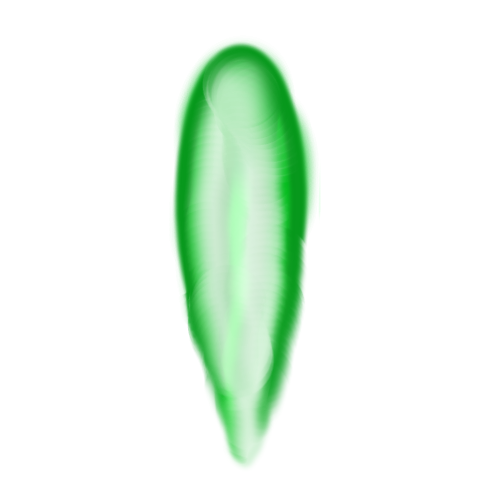
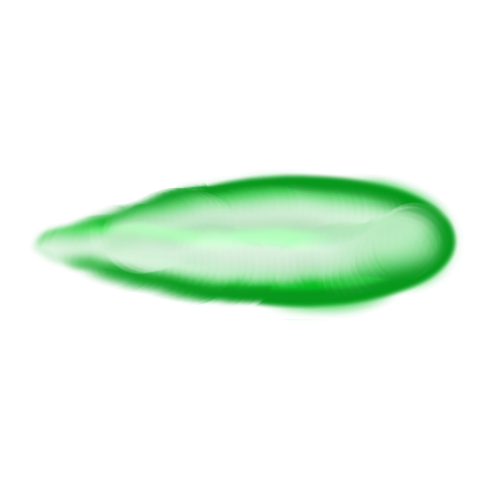
Add files via upload

Changed region(s): [[0.06, 0.06, 0.93, 0.93]]

diff --git a/src/scenes/GamePlay.js b/src/scenes/GamePlay.js
@@ -1,152 +1,156 @@
-class GamePlay extends Phaser.Scene {
-  constructor() {
-    super({
-      key: "GamePlay",
-    });
-    this.w = 3200;
-    this.h = 2400;
-    this.speed = 400;
-    this.zombies = null;
-    this.bullets = null;
-    this.lastFired = 0;
-    this.mouseX = 0;
-    this.mouseY = 0;
-    this.round = 1;
-    this.damage = 100;
-  }
-  preload() {}
-  create() {
-    this.background = this.add.image(this.w / 2, this.h / 2, "background");
-    this.player = this.physics.add
-      .sprite(this.w / 2, this.h / 2, "player")
-      .setScale(0.25);
-    this.bullets = this.physics.add.group({
-      classType: Bullet,
-      runChildUpdate: true,
-    });
-    this.zombies = this.physics.add.group({
-      classType: Zombie,
-      runChildUpdate: true
-    })
-    this.txt = this.add.text(
-      this.cameras.main.scrollX,
-      this.cameras.main.scrollY,
-      "", {
-        font: "25px Arial",
-        fill: "yellow",
-      }
-    );
-
-    //this.player.play("player_anim", true);
-
-    this.player.setCollideWorldBounds();
-    this.physics.world.setBounds(0, 0, this.w, this.h);
-    this.cameras.main.zoom = 0.5;
-    this.cameras.main.startFollow(this.player, true);
-    this.cameras.main.setBounds(0, 0, this.w, this.h);
-
-    //this.input.setPollAlways();
-    this.mouse = this.input.mousePointer;
-
-
-    this.physics.add.collider(this.zombies);
-    this.physics.add.collider(this.bullets, this.zombies, this.zombieHit, null, this);
-
-    for (let i = 0; i < 1; i++) {
-      this.zombies.add(new Zombie(this, Phaser.Math.Between(50, this.w - 50), Phaser.Math.Between(50, this.h - 50)));
+  class GamePlay extends Phaser.Scene {
+    constructor() {
+      super({
+        key: "GamePlay",
+      });
+      this.w = 3200;
+      this.h = 2400;
+      this.speed = 400;
+      this.zombies = null;
+      this.bullets = null;
+      this.lastFired = 0;
+      this.mouseX = 0;
+      this.mouseY = 0;
+      this.round = 1;
+      this.damage = 100;
     }
-    this.moveKeys = this.input.keyboard.addKeys({
-      up: Phaser.Input.Keyboard.KeyCodes.W,
-      down: Phaser.Input.Keyboard.KeyCodes.S,
-      left: Phaser.Input.Keyboard.KeyCodes.A,
-      right: Phaser.Input.Keyboard.KeyCodes.D,
-    });
+    preload() {}
+    create() {
+      this.background = this.add.image(this.w / 2, this.h / 2, "background");
+      this.player = this.physics.add
+        .sprite(this.w / 2, this.h / 2, "player")
+        .setScale(0.25);
+      this.bullets = this.physics.add.group({
+        classType: Bullet,
+        runChildUpdate: true,
+      });
+      this.zombies = this.physics.add.group({
+        classType: Zombie,
+        runChildUpdate: true
+      })
+      this.txt = this.add.text(
+        this.cameras.main.scrollX,
+        this.cameras.main.scrollY,
+        "", {
+          font: "25px Arial",
+          fill: "yellow",
+        }
+      );
 
-    this.input.keyboard.on("keydown_W", (e) => {
-      this.player.setVelocityY(-this.speed);
-    });
-    this.input.keyboard.on("keydown_S", (e) => {
-      this.player.setVelocityY(this.speed);
-    });
-    this.input.keyboard.on("keydown_A", (e) => {
-      this.player.setVelocityX(-this.speed);
-    });
-    this.input.keyboard.on("keydown_D", (e) => {
-      this.player.setVelocityX(this.speed);
-    });
+      //this.player.play("player_anim", true);
 
-    this.input.keyboard.on("keyup_W", (e) => {
-      if (this.moveKeys["down"].isUp) {
-        this.player.setVelocityY(0);
-      }
-    });
-    this.input.keyboard.on("keyup_S", (e) => {
-      if (this.moveKeys["up"].isUp) {
-        this.player.setVelocityY(0);
-      }
-    });
-    this.input.keyboard.on("keyup_A", (e) => {
-      if (this.moveKeys["right"].isUp) {
-        this.player.setVelocityX(0);
-      }
-    });
-    this.input.keyboard.on("keyup_D", (e) => {
-      if (this.moveKeys["left"].isUp) {
-        this.player.setVelocityX(0);
-      }
-    });
-  }
-  /*constrainVelocity(sprite, maxVelocity) {
-    if (!sprite || !sprite.body) return;
+      this.player.setCollideWorldBounds();
+      this.physics.world.setBounds(0, 0, this.w, this.h);
+      this.cameras.main.zoom = 0.5;
+      this.cameras.main.startFollow(this.player, true);
+      this.cameras.main.setBounds(0, 0, this.w, this.h);
 
-    var angle, currVelocitySqr, vx, vy;
-    vx = sprite.body.velocity.x;
-    vy = sprite.body.velocity.y;
-    currVelocitySqr = vx * vx + vy * vy;
+      //this.input.setPollAlways();
+      this.mouse = this.input.activePointer;
 
-    if (currVelocitySqr > maxVelocity * maxVelocity) {
-      angle = Math.atan2(vy, vx);
-      vx = Math.cos(angle) * maxVelocity;
-      vy = Math.sin(angle) * maxVelocity;
-      sprite.body.velocity.x = vx;
-      sprite.body.velocity.y = vy;
+      this.addZombies(10);
+      this.physics.add.collider(this.zombies);
+      this.physics.add.collider(this.bullets, this.zombies, this.zombieHit, null, this);
+
+
+      this.moveKeys = this.input.keyboard.addKeys({
+        up: Phaser.Input.Keyboard.KeyCodes.W,
+        down: Phaser.Input.Keyboard.KeyCodes.S,
+        left: Phaser.Input.Keyboard.KeyCodes.A,
+        right: Phaser.Input.Keyboard.KeyCodes.D,
+      });
+
+      this.input.keyboard.on("keydown_W", (e) => {
+        this.player.setVelocityY(-this.speed);
+      });
+      this.input.keyboard.on("keydown_S", (e) => {
+        this.player.setVelocityY(this.speed);
+      });
+      this.input.keyboard.on("keydown_A", (e) => {
+        this.player.setVelocityX(-this.speed);
+      });
+      this.input.keyboard.on("keydown_D", (e) => {
+        this.player.setVelocityX(this.speed);
+      });
+
+      this.input.keyboard.on("keyup_W", (e) => {
+        if (this.moveKeys["down"].isUp) {
+          this.player.setVelocityY(0);
+        }
+      });
+      this.input.keyboard.on("keyup_S", (e) => {
+        if (this.moveKeys["up"].isUp) {
+          this.player.setVelocityY(0);
+        }
+      });
+      this.input.keyboard.on("keyup_A", (e) => {
+        if (this.moveKeys["right"].isUp) {
+          this.player.setVelocityX(0);
+        }
+      });
+      this.input.keyboard.on("keyup_D", (e) => {
+        if (this.moveKeys["left"].isUp) {
+          this.player.setVelocityX(0);
+        }
+      });
     }
-  }*/
-  shoot() {
-    let bullet = new Bullet(this);
-    bullet.fire(this.player);
-  }
+    /*constrainVelocity(sprite, maxVelocity) {
+      if (!sprite || !sprite.body) return;
 
-  zombieHit(bullet, zombie) {
-    if (bullet.active && zombie.active) {
-      bullet.destroy();
-      zombie.health -= this.damage;
-    }
-  }
+      var angle, currVelocitySqr, vx, vy;
+      vx = sprite.body.velocity.x;
+      vy = sprite.body.velocity.y;
+      currVelocitySqr = vx * vx + vy * vy;
 
-  update(time, delta) {
-    this.input.mousePointer.updateWorldPoint(this.cameras.main);
-    this.mouseX = this.input.mousePointer.worldX;
-    this.mouseY = this.input.mousePointer.worldY;
-    this.player.rotation = Phaser.Math.Angle.Between(
-      this.player.x,
-      this.player.y,
-      this.mouseX,
-      this.mouseY
-    );
-
-    if (this.mouse.isDown && time > this.lastFired) {
-      if (this.player.active == false) return;
-      this.shoot();
-      this.lastFired = time + 100;
-    }
-
-    /*for (let i = 0; i < this.bullets.getChildren().length; i++) {
-      this.bullets.getChildren()[i].update();
+      if (currVelocitySqr > maxVelocity * maxVelocity) {
+        angle = Math.atan2(vy, vx);
+        vx = Math.cos(angle) * maxVelocity;
+        vy = Math.sin(angle) * maxVelocity;
+        sprite.body.velocity.x = vx;
+        sprite.body.velocity.y = vy;
+      }
     }*/
+    shoot() {
+      let bullet = this.bullets.get().setActive(true).setVisible(true);
+      bullet.fire(this.player);
+    }
 
-    //this.constrainVelocity(this.player, 400);
-    //this.txt.text = `${this.mouseX} ${this.mouseY} | ${this.input.activePointer.x} ${this.input.activePointer.y} | ${this.player.x} ${this.player.y} | ${this.cameras.main.scrollX} ${this.cameras.main.scrollY}`;
-    this.txt.setPosition(this.cameras.main.scrollX, this.cameras.main.scrollY);
+    zombieHit(bullet, zombie) {
+      if (bullet.active && zombie.active) {
+        bullet.destroy();
+        zombie.health -= this.damage;
+      }
+    }
+
+    addZombies(count) {
+      for (let i = 0; i < count; i++) {
+        this.zombies.get().setActive(true).setVisible(true);
+      }
+    }
+
+    update(time, delta) {
+      this.input.activePointer.updateWorldPoint(this.cameras.main);
+      this.mouseX = this.input.activePointer.worldX;
+      this.mouseY = this.input.activePointer.worldY;
+      this.player.rotation = Phaser.Math.Angle.Between(
+        this.player.x,
+        this.player.y,
+        this.mouseX,
+        this.mouseY
+      );
+
+      if (this.mouse.isDown && time > this.lastFired) {
+        if (this.player.active == false) return;
+        this.shoot();
+        this.lastFired = time + 100;
+      }
+
+      /*for (let i = 0; i < this.bullets.getChildren().length; i++) {
+        this.bullets.getChildren()[i].update();
+      }*/
+
+      //this.constrainVelocity(this.player, 400);
+      //this.txt.text = `${this.mouseX} ${this.mouseY} | ${this.input.activePointer.x} ${this.input.activePointer.y} | ${this.player.x} ${this.player.y} | ${this.cameras.main.scrollX} ${this.cameras.main.scrollY}`;
+      this.txt.setPosition(this.cameras.main.scrollX, this.cameras.main.scrollY);
+    }
   }
-}

diff --git a/src/classes/Bullet.js b/src/classes/Bullet.js
@@ -1,59 +1,32 @@
-class Bullet extends Phaser.GameObjects.Sprite {
-  constructor(scene) {
-    let x = scene.player.x;
-    let y = scene.player.y;
+class Bullet extends Phaser.Physics.Arcade.Sprite {
+  constructor(scene, x, y) {
+    //let x = scene.player.x;
+    //let y = scene.player.y;
     super(scene, x, y, "blast");
-    scene.add.existing(this);
-
-    scene.physics.world.enableBody(this);
-
-    scene.bullets.add(this);
-    scene.physics.velocityFromRotation(
-      scene.player.rotation,
-      1800,
-      this.body.velocity
-    );
-    this.setScale(0.125);
-
-    /*Phaser.GameObjects.Image.call(this, scene, x, y, 'bullet');
-    this.speed = 1;
+    /*this.setScale(50, 50);
+    this.body.width = 50; //.setScale(0.1275);
+    this.body.height = 50*/ //.setScale(0.1275);
     this.born = 0;
-    this.direction = 0;
-    this.xSpeed = 0;
-    this.ySpeed = 0;
-    this.setSize(12, 12, true);*/
+    this.speed = 1500;
+
   }
 
-  fire(player, target) {
-    this.angle = player.angle + 90;
-    /*this.setPosition(player.x, player.y);
-    this.direction = Math.atan((target.x - this.x) / (target.y - this.y));
-    if (target.y >= this.y) {
-      this.xSpeed = this.speed * Math.sin(this.direction);
-      this.ySpeed = this.speed * Math.cos(this.direction);
-    } else {
-      this.xSpeed = -this.speed * Math.sin(this.direction);
-      this.ySpeed = -this.speed * Math.cos(this.direction);
-    }
-    this.rotation = player.rotation;
-    this.born = 0;*/
+  fire(player) {
+    this.setRotation(player.rotation);
+
+    this.x = player.x + (70 * Math.cos(this.rotation));
+    this.y = player.y + (70 * Math.sin(this.rotation));
+
+    this.setVelocityX(this.speed * Math.cos(Math.PI * this.angle / 180));
+    this.setVelocityY(this.speed * Math.sin(Math.PI * this.angle / 180));
+
+    this.born = 0;
   }
 
   update(time, delta) {
-    if (
-      this.x > this.scene.w ||
-      this.x < 0 ||
-      this.y > this.scene.h ||
-      this.y < 0
-    ) {
-      this.destroy();
-    }
-    /*this.x = this.xSpeed * delta;
-    this.y = this.ySpeed * delta;
     this.born += delta;
-    if (this.born > 1800) {
-      this.setActive(false);
-      this.setVisible(false);
-    }*/
+    if (this.born > 1500) {
+      this.destroy;
+    }
   }
 }

diff --git a/src/scenes/LoadScene.js b/src/scenes/LoadScene.js
@@ -8,7 +8,7 @@ class LoadScene extends Phaser.Scene {
     this.load.image("background", "./assets/map2.png");
     this.load.image("player", "./assets/player.png");
     this.load.image("bullet", "./assets/red.png");
-    this.load.image("blast", "./assets/laser.png");
+    this.load.image("blast", "./assets/blast.png");
     this.load.spritesheet("zombie", "./assets/zombie.png", {
       frameWidth: 288,
       frameHeight: 311,

diff --git a/src/classes/Zombie.js b/src/classes/Zombie.js
@@ -1,5 +1,8 @@
 class Zombie extends Phaser.GameObjects.Sprite {
-    constructor(scene, x, y) {
+    constructor(scene) {
+        let x = Phaser.Math.Between(50, scene.w - 50);
+        let y = Phaser.Math.Between(50, scene.h - 50);
+
         super(scene, x, y, "zombie");
         scene.add.existing(this);
         scene.physics.world.enableBody(this);
